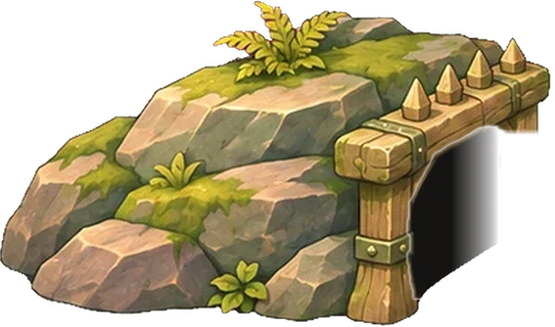
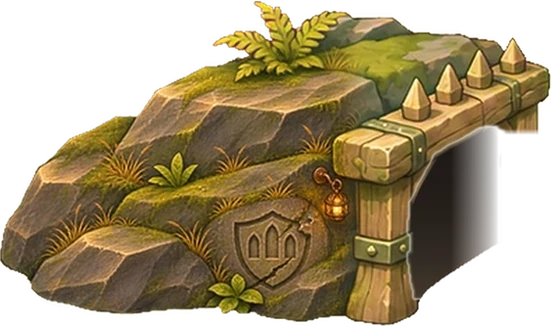
night(codex): round 19

diff --git a/tools/map-compose/test_ground.py b/tools/map-compose/test_ground.py
@@ -8,7 +8,7 @@ import numpy as np
 from PIL import Image, ImageChops, ImageColor, ImageDraw
 
 import fords
-from banks import shore_foundation
+from banks import shore_foundation, water_reflection
 from gates import draw_threshold_road, output_sprite
 from keeps import Keep, sample
 from masonry import RoadArcade, arch_bridge, brick_spur, cart_tracks, paved_road
@@ -18,7 +18,7 @@ from ground import windblown_road_coverage
 
 
 class GroundTests(unittest.TestCase):
-    def load_crossings_and_check_rings(self, island):
+    def load_recipe_and_check_rings(self, island):
         compose = Path(__file__).resolve().parent
         root = compose.parents[1]
         recipe = json.loads((compose / 'campaign.json').read_text())[island]
@@ -34,11 +34,48 @@ class GroundTests(unittest.TestCase):
         for x, y in layout['plots']:
             draw.ellipse((x-rx-4, y-ry-4, x+rx+4, y+ry+4), fill=255)
         self.assertIsNone(ImageChops.subtract(rings, land).getbbox())
-        return recipe['crossings'], kit, layout, land
+        return recipe, kit, layout, land
+
+    def test_bastion_drawbridge_spans_the_moat_and_keeps_both_landings_dry(self):
+        recipe, _, layout, land = self.load_recipe_and_check_rings('i08')
+        [(_, start, end, above, below, _)] = recipe['archBridges']
+        x0, y0 = start
+        x1, y1 = end
+
+        def deck(u, v):
+            return round(x0 + (x1-x0)*u), round(y0 + (y1-y0)*u - above + (above+below)*v)
+
+        for u in (.04, .96):
+            for v in (.25, .73):
+                self.assertEqual(land.getpixel(deck(u, v)), 255)
+        for v in (.25, .5, .73):
+            self.assertEqual(land.getpixel(deck(.5, v)), 0)
+
+        supported = land.copy()
+        ImageDraw.Draw(supported).polygon([deck(u, v) for u, v in
+            [(0, .20), (1, .20), (1, .78), (0, .78)]], fill=255)
+        road = Image.new('L', land.size)
+        ImageDraw.Draw(road).line([tuple(p) for p in layout['paths'][0]],
+                                  fill=255, width=round(.068 * land.height), joint='curve')
+        self.assertIsNone(ImageChops.subtract(road, supported).getbbox())
+
+    def test_ruin_reflection_preserves_the_shore_and_open_arch(self):
+        land = Image.new('L', (80, 90))
+        ImageDraw.Draw(land).rectangle((36, 0, 79, 89), fill=255)
+        for scale in (1, 2, 3):
+            ground = Image.new('RGBA', (80*scale, 90*scale), 'teal')
+            before = ground.copy()
+            stones = Image.new('RGBA', (44*scale, 46*scale), 'tan')
+            ImageDraw.Draw(stones).rectangle((13*scale, 12*scale, 34*scale, 46*scale), fill=(0, 0, 0, 0))
+            water_reflection(ground, stones, 10*scale, 53*scale, land, scale)
+            changed = ImageChops.difference(ground, before).convert('RGB')
+            self.assertIsNotNone(changed.crop((15*scale, 55*scale, 21*scale, 66*scale)).getbbox())
+            for box in ((0, 0, 80, 49), (27, 54, 32, 66), (37, 0, 80, 90), (0, 82, 80, 90)):
+                self.assertIsNone(changed.crop(tuple(v*scale for v in box)).getbbox())
 
     def test_galewatch_road_only_leaves_its_ledge_on_the_bridge(self):
-        crossings, kit, layout, land = self.load_crossings_and_check_rings('i11')
-        [(name, x, y, length, width, angle)] = crossings
+        recipe, kit, layout, land = self.load_recipe_and_check_rings('i11')
+        [(name, x, y, length, width, angle)] = recipe['crossings']
         cos, sin = math.cos(math.radians(angle)), math.sin(math.radians(angle))
 
         def on_map(u, v):
@@ -62,7 +99,8 @@ class GroundTests(unittest.TestCase):
         self.assertIsNone(ImageChops.subtract(road, supported).getbbox())
 
     def test_emerald_crossings_have_dry_landings_and_span_open_water(self):
-        crossings, kit, _, land = self.load_crossings_and_check_rings('i04')
+        recipe, kit, _, land = self.load_recipe_and_check_rings('i04')
+        crossings = recipe['crossings']
         # Probe the timber feet. A centreline check missed the post beside the waterfall.
         landings = {
             'rope-span': [(0.21, .14), (.75, .16), (.12, .92), (.81, .94)],

diff --git a/tools/map-compose/compose.py b/tools/map-compose/compose.py
@@ -91,7 +91,7 @@ from gates import (  # noqa: E402
     blend_placement, clip_road_at_gate, contact_shadow, cut_front, draw_threshold_road, entrance_dir, entrance_facing, gate_alpha_hit, goal_dir, goal_facing, light_interior, output_box, output_sprite, place_gate, point_in_opening, resolve_prop,
 )
 import fords  # noqa: E402
-from banks import shore_foundation  # noqa: E402
+from banks import shore_foundation, water_reflection  # noqa: E402
 from masonry import RoadArcade, arch_bridge, brick_spur, cart_tracks, marble_road, moat_wall, paved_road  # noqa: E402
 from keeps import Keep  # noqa: E402
 from ground import (  # noqa: E402
@@ -695,7 +695,7 @@ if dressing:
 
 # Mask of water and chasm banks in the terrain painting. Keep rooted props on land.
 land_mask = (load(f'land-{L["id"]}.webp').convert('L')
-             if dressing.get('islet') or dressing.get('waterCrossings') else None)
+             if any(dressing.get(key) for key in ('islet', 'waterCrossings', 'waterReflections')) else None)
 
 
 def on_land(x, y):
@@ -894,7 +894,10 @@ def sprite(name, x, y_bottom, height_px, flip=False, flat=False):
     if flip:
         im = im.transpose(Image.FLIP_LEFT_RIGHT)
     if flat:
-        ground.alpha_composite(im, (round(x - im.width / 2), round(y_bottom - im.height)))
+        left, bottom = round(x - im.width / 2), round(y_bottom)
+        if name in dressing.get('waterReflections', []):
+            water_reflection(ground, im, left, bottom, land_mask, S)
+        ground.alpha_composite(im, (left, round(y_bottom - im.height)))
     else:
         items.append((y_bottom, im, x, y_bottom, True))
 

diff --git a/tools/map-compose/banks.py b/tools/map-compose/banks.py
@@ -1,8 +1,29 @@
-"""Fit painted shelves to shore plots in layout coordinates, at any bake size."""
+"""Place shore foundations and water reflections at map resolution."""
 import math
 
 import numpy as np
 from PIL import Image, ImageChops, ImageFilter
+
+
+def water_reflection(ground, sprite, left, bottom, land, scale):
+    """Reflect a flooded ruin across its lowest course, breaking the image into ripples."""
+    width, height = sprite.size
+    depth = max(1, round(height * .54))
+    waterline = bottom - round(height * .045)
+    y, x = np.ogrid[:depth, :width]
+    distance = y / scale
+    phase = distance * .91 + .8 * np.sin(x / (scale * 23))
+    shift = scale * (1.4 + 3.2 * y / depth) * (np.sin(phase) + .43 * np.sin(distance * 1.83))
+    u = np.rint(x + shift).astype(int)
+    v = np.clip(np.rint(height * .955 - y / .54).astype(int), 0, height-1)
+    pixels = np.asarray(sprite)[v, u.clip(0, width-1)].copy()
+    strength = (.66 - .27 * y / depth) * (.80 + .20 * np.sin(phase))
+    # Let the painted water and its reed banks show through at every bake density.
+    mx, my = land.width / ground.width, land.height / ground.height
+    box = (left*mx, waterline*my, (left+width)*mx, (waterline+depth)*my)
+    bank = land.transform((width, depth), Image.Transform.EXTENT, box, Image.Resampling.BILINEAR)
+    pixels[:, :, 3] = pixels[:, :, 3] * strength * (1 - np.asarray(bank)/255) * (u >= 0) * (u < width)
+    ground.alpha_composite(Image.fromarray(pixels), (left, waterline))
 
 
 def shore_foundation(ground, land, layout_size, islet, centre, radii, scale):

diff --git a/docs/overnight/PROGRESS-codex.md b/docs/overnight/PROGRESS-codex.md
@@ -1,5 +1,28 @@
 # Content overnight · codex
 
+## Round 19 · 05:53–06:05 UTC · codex/night
+
+Started from `17053f7`. Changes are in the working tree for the overnight runner.
+
+### Done
+
+- **i08 Sunken Bastion.** A ruined arch with a teal pennant stands in the western reed marsh. A broken pair of piers marks the inner moat. Their reflections follow the ripples and stop at the banks. Continuous turf now supports the keep and all 28 tower rings. The eastern crossing carries a lowered oak drawbridge with a hand winch. A native-size review caught part of its near pier hanging over the bank. Reshaped that bank and checked both ends of the span. [Whole island and native 2× details](maps-round19-bastion.jpg)
+- The western entrance carries a carved shield and a votive lamp. A path from the southern bend reaches the keeper’s bronze lantern and wick trimmer from the outro. Reduced the size of the exposed road stones after the first bake. Pulled the lamp path clear of plot 21 and the ruined arch clear of the tower envelope on plot 2. [Paintings, briefs and rebuild command](../../design/art-2d/v2/biomes/terraces/sunken-bastion.md)
+
+### Verification
+
+- Baked with `--keep-plots`. All 25 saved layouts match the starting revision byte for byte and pass their geometry checks. Decoded all 100 maps and 132 gate fronts. All four i08 gate-front alpha channels match their originals. An independent bake reproduced all eight shipping textures byte for byte. Their combined size grew by 1,230,944 bytes, including 138,488 bytes for the 1.5× map.
+- In Outer Ramparts, three grunts reached the drawbridge and its approach 2,223 simulation steps after the horn. Drawbridge Raid had five towers and eight enemies at wave tick 181. The Warden of Depths had twelve towers and 32 enemies at tick 510. All nine before/after pairs match on simulation state, actor positions, builds, camera and texture selection. Desktop DPR 2 loaded the 3× map. A separate phone battle with Bran checked the arch against the hero portrait. [1920 × 1080 at DPR 1 and 2, with native combat crops](maps-round19-desktop.jpg) · [844 × 390 at DPR 3](maps-round19-phone.jpg)
[1 lines of base64/hex data omitted]
+
+### Requests for other agents
+
+Chapter two still awaits the shared enemy roster, clip and death integration, stories, Turkish entries and i21 horn placement detailed in the earlier handoffs. This round introduces scenery only.
+
+### Next round
+
+If shared chapter registration has landed, verify the production unlock, stories and first kills. Otherwise inspect i10 Confluence Terraces. The painted intro puts a warning bell above two terraced roads. Its battle map has five water crossings, but little elevation separates the fields and the sluice is partly outside the bottom edge. Check the bell, sluice and stepped banks against both lanes and the phone HUD.
+
 ## Round 18 · 05:32–05:53 UTC · codex/night
 
 Started from `7ad391e`. The working tree is ready for the overnight runner.

diff --git a/design/art-2d/v2/biomes/terraces/sunken-bastion.md b/design/art-2d/v2/biomes/terraces/sunken-bastion.md
@@ -1,0 +1,25 @@
+# Sunken Bastion
+
+A lowered drawbridge connects the last turn of the road to the inner keep. The western arch stands in the marsh, with the stumps of a second wall closer to the keep. A worn path leads off the southern bend to the lantern the keeper lights in the outro.
+
+## Painting briefs
+
+The built-in image generator supplied these source paintings in a high three-quarter view, with sunlight from the upper left.
+
+| Kit art | Prompt and fit |
+| --- | --- |
+| `terrain-i08.webp`, `land-i08.webp` | Paint golden-green turf, thyme and worn grass on the green areas of the bank survey. Fill the blue areas with clear marsh water, horizontal sunset reflections, broken stone, lily pads and uneven ochre reeds. Keep the exact contours of both interior pools. The survey reserves the full footprints of all 28 rings and both road approaches. Bring the eastern bank under the near drawbridge pier. |
+| `landmark-drowned-arch.webp`, `landmark-flooded-piers.webp` | Build one broad pointed limestone arch with a broken merlon, a faded teal pennant, climbing ivy and a dark flood mark on its lowest course. For the second wall, paint two unequal, partly collapsed piers joined by rubble, with cattails and a few white lilies. The compositor flips and shortens each silhouette at the flood mark and displaces its rows to follow the ripples. The land mask clips the reflections at the banks. |
+| `landmark-marsh-drawbridge.webp` | Paint the broad oak deck of a lowered west-to-east drawbridge. Show weathered planks, iron straps, mossy stone sills and a slack chain on a small hand winch. Leave the channel transparent between the two abutments. The near side of each abutment disappears into its bank. |
+| `marsh-postern-e.webp` | Fit an incised three-window shield and a small caged votive light to the rock left of the existing timber entrance. Work ochre grass into the seams. The finish preserves the gate silhouette, posts and opening used to draw passing enemies. |
+| `landmark-marsh-light.webp` | Mount a bronze cage lantern on two courses of a collapsed limestone wall. Put a closed oil flask and a wick trimmer on the lowest step. |
+| `tex-moat-road.webp`, `dressing-i08.webp` | Half bury groups of small limestone setts in light-brown gritty earth with a few brick fragments. Crop the painting into irregular swatches for the road. Use a narrow worn strip to reach the lantern step and reserve that path from scatter. |
+
+## Rebuild
+
+```sh
+/usr/bin/python3 -B tools/map-compose/rebake_all.py i08
+/usr/bin/python3 -B tools/map-compose/test_ground.py
+```
+
+The map regression checks the two sills, water at midspan, the width of the saved road and the ground beneath every ring and its contact shadow. A separate regression checks the reflection around a transparent arch opening and across a bank at three resolutions.
